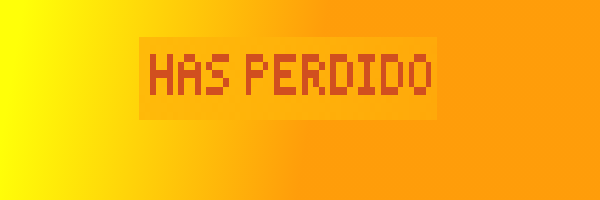
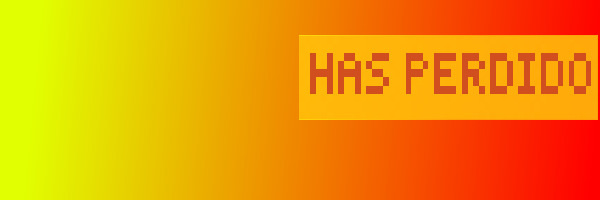
main

diff --git a/t-rex.js b/t-rex.js
@@ -8,7 +8,7 @@ const burguer2 = document.getElementById("burguer2")
 const hombre = document.getElementById("personaje1")
 const mujer = document.getElementById("personaje2")
 const formulario = document.getElementById("formulario")
-/* const trofeo = document.querySelector(".trofeo") */
+ const trofeo = document.querySelector(".trofeo") 
 
 const url = window.location.href;
 
@@ -197,10 +197,10 @@ let estaVivo = setInterval(function(){
         derrota.classList.remove("derrota");
         derrota.classList.add("perdiste");
         trofeo.classList.add("perder");
-        punto.style.setProperty("top", "32px"); 
+        punto.style.setProperty("display", "none"); 
         punto.style.setProperty("left", "172px"); 
-        puntuacion.style.setProperty("top", "65px"); 
-        puntuacion.style.setProperty("left", "100px"); 
+        puntuacion.style.setProperty("display", "none"); 
+        puntuacion.style.setProperty("display", "none"); 
     }
     
 }, 10);
@@ -423,11 +423,18 @@ juego.addEventListener("click", function(event) {
         derrota.classList.remove("perdiste");
         dino.style.display = "flex"
         document.location.reload();
-        /* trofeo.classList.remove("perder"); */
+         trofeo.classList.remove("perder"); 
+         
     }
 }
 
+
 })
+
+if(perder == true){
+    punto.style.display("none");
+    puntuacion.style.display("none");
+}
 
 juego.onmousedown = function(){
     jump()

diff --git a/styles.css b/styles.css
@@ -1,13 +1,19 @@
 body{
     background: rgb(223, 104, 50);
+    top: 50%;
 }
 #juego{
+    position: absolute;
     width: 600px;
     height:200px;
     border: 1px solid black;
     margin: auto ;
     overflow: hidden;
-    
+    margin-top: auto;
+    top: 50%;
+    left: 50%;
+    margin: -100px 0 0 -300px;
+    right: 50%;
     justify-content:center;
     align-content: center;
     touch-action: manipulation;
@@ -18,12 +24,14 @@ body{
 
 #formulario{
     
-    display: block;
+   
     text-align: center;
-    font-size: 150%;
+    font-size: 120%;
     font-family:  Helvetica, Arial, sans-serif;
     color: beige;
-    
+    position: relative;
+    top:-1388px;
+    left: -150px;
 }
 #formulario{
     margin-top: 10px;
@@ -138,7 +146,7 @@ body{
     background-image: url(./assets/perdiste.png);
 
     position: relative;  
-    top: -1114px;
+    top: -1117px;
 }
 .perder{
     width: 120px;
@@ -177,8 +185,8 @@ body{
     cursor: pointer;
     width: 400px;
     height: 330px;
-    top: -105px;
-    margin-top: -65px;
+    top: -90px;
+    margin-top: -55px;
     
 }
 .disfrazoff{

diff --git a/index.html b/index.html
@@ -16,21 +16,21 @@
         <div id="dino"></div>
         <div id="cactus"></div>
         <div id="cactus2"></div>
-        <div id="puntos">Tiempo: 0</div> 
-        <div id="puntuacion">Puntos: 0</div> 
+        <div id="puntos"></div> 
+        <div id="puntuacion"></div> 
         <div id="musica">🎶</div> 
         <div id="burguer"></div>
         <div id="burguer2"></div>
         <div class="derrota"></div>
-        <a href="subida.php"><div class="trofeo"></div></a>
+        <a href="clasificaciones.php"><div class="trofeo"></div></a>
+        
+        <form id="formulario" action="./subida.php" method="POST" >
         
         
+        </form>
         
     </div>
-    <form id="formulario" action="./subida.php" method="POST" >
-        
-        
-    </form>
+    
     <audio id="salto" src="./assets/salto.mp3"></audio>
     <audio id="choque" src="./assets/choque.mp3"></audio>
     <audio id="coin" src="./assets/mordisco.mp3"></audio>

diff --git a/clasificaciones.php b/clasificaciones.php
@@ -1,0 +1,85 @@
+<?php
+$escribir = false;
+$crear_primero = false;
+$crear_segundo = false;
+$crear_tercero = false;
+$crear_cuarto = false;
+$crear_quinto = false;
+$crear_sexto = false;
+$crear_septimo = false;
+$crear_octavo = false;
+$crear_noveno = false;
+$crear_decimo = false;
+$primero = 0;
+$num1 = fopen("posicionamiento/num1.txt", "a+");
+$number1 = intval(fgets($num1));
+$pos1 = fopen("posicionamiento/pos1.txt", "a+");
+
+$num2 = fopen("posicionamiento/num2.txt", "a+");
+$number2 = intval(fgets($num2));
+$pos2 = fopen("posicionamiento/pos2.txt", "a+");
+
+$num3 = fopen("posicionamiento/num3.txt", "a+");
+$number3 = intval(fgets($num3));
+$pos3 = fopen("posicionamiento/pos3.txt", "a+");
+
+$num4 = fopen("posicionamiento/num4.txt", "a+");
+$number4 = intval(fgets($num4));
+$pos4 = fopen("posicionamiento/pos4.txt", "a+");
+
+$num5 = fopen("posicionamiento/num5.txt", "a+");
+$number5 = intval(fgets($num5));
+$pos5 = fopen("posicionamiento/pos5.txt", "a+");
+
+$num6 = fopen("posicionamiento/num6.txt", "a+");
+$number6 = intval(fgets($num6));
+$pos6 = fopen("posicionamiento/pos6.txt", "a+");
+
+$num7 = fopen("posicionamiento/num7.txt", "a+");
+$number7 = intval(fgets($num7));
+$pos7 = fopen("posicionamiento/pos7.txt", "a+");
+
+$num8 = fopen("posicionamiento/num8.txt", "a+");
+$number8 = intval(fgets($num8));
+$pos8 = fopen("posicionamiento/pos8.txt", "a+");
+
+$num9 = fopen("posicionamiento/num9.txt", "a+");
+$number9 = intval(fgets($num9));
+$pos9 = fopen("posicionamiento/pos9.txt", "a+");
+
+$num10 = fopen("posicionamiento/num10.txt", "a+");
+$number10 = intval(fgets($num10));
+$pos10 = fopen("posicionamiento/pos10.txt", "a+");
+
+
+?>
+
+<!DOCTYPE html>
+<html lang="es">
+<head>
+    <meta charset="UTF-8">
+    <meta http-equiv="X-UA-Compatible" content="IE=edge">
+    <meta name="viewport" content="width=device-width, initial-scale=1.0">
+    <title>Clasificaciones</title>
+    <link rel="stylesheet" href="./clasificaciones.css">
+</head>
+<body>
+    <h1>Clasificaciones</h1>
+    <div id="clasificaciones">
+        <ol>
+            <li><?php echo fgets($pos1)?></li>
+            <li><?php echo fgets($pos2)?></li>
+            <li><?php echo fgets($pos3)?></li>
+            <li><?php echo fgets($pos4)?></li>
+            <li><?php echo fgets($pos5)?></li>
+            <li><?php echo fgets($pos6)?></li>
+            <li><?php echo fgets($pos7)?></li>
+            <li><?php echo fgets($pos8)?></li>
+            <li><?php echo fgets($pos9)?></li>
+            <li><?php echo fgets($pos10)?></li>
+        </ol>
+    </div>
+    <h3><a href="./index.html"> Volver a jugar</a></h3>
+    <script src="./clasificaciones.js"></script>
+</body>
+</html>
